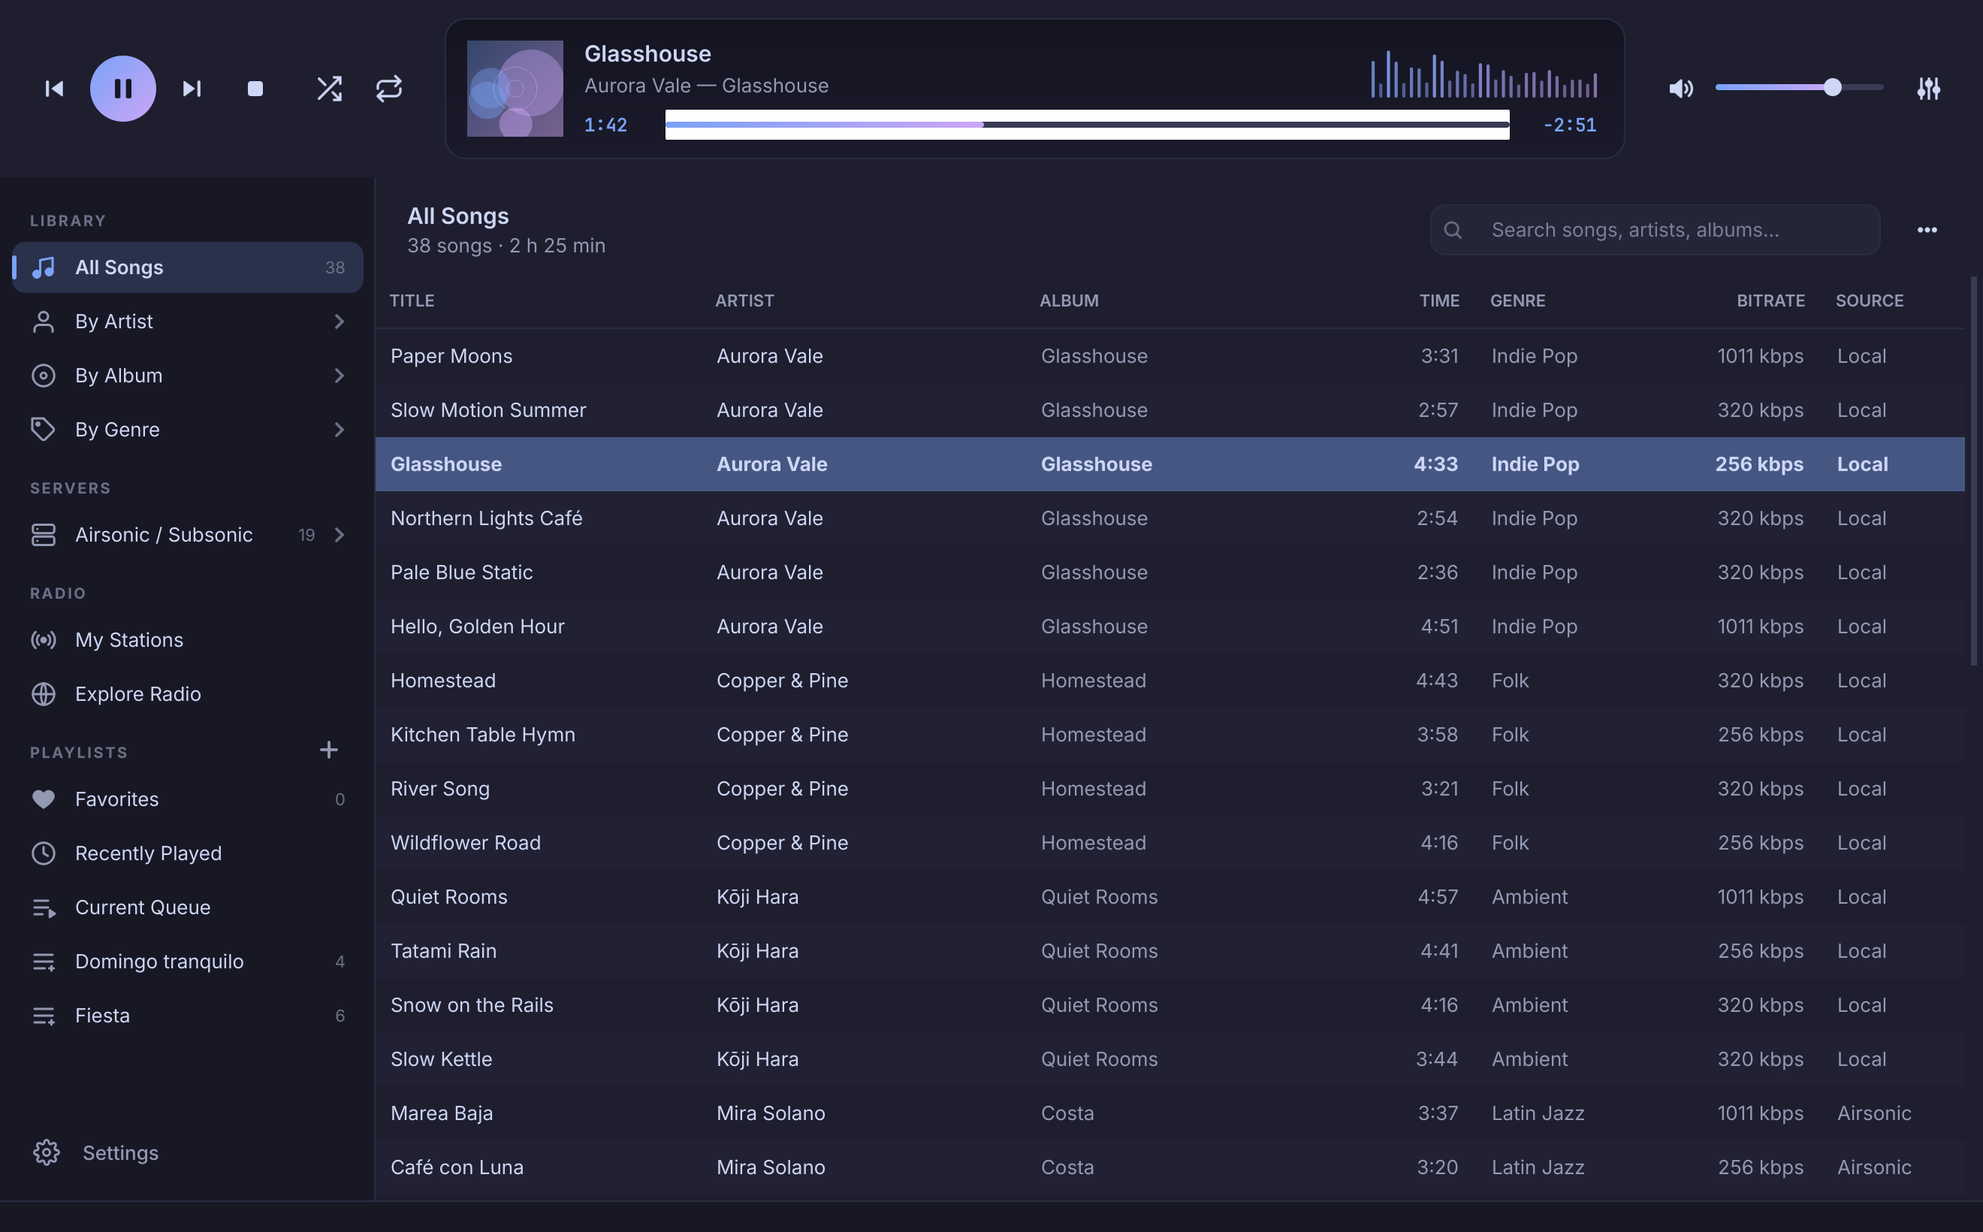
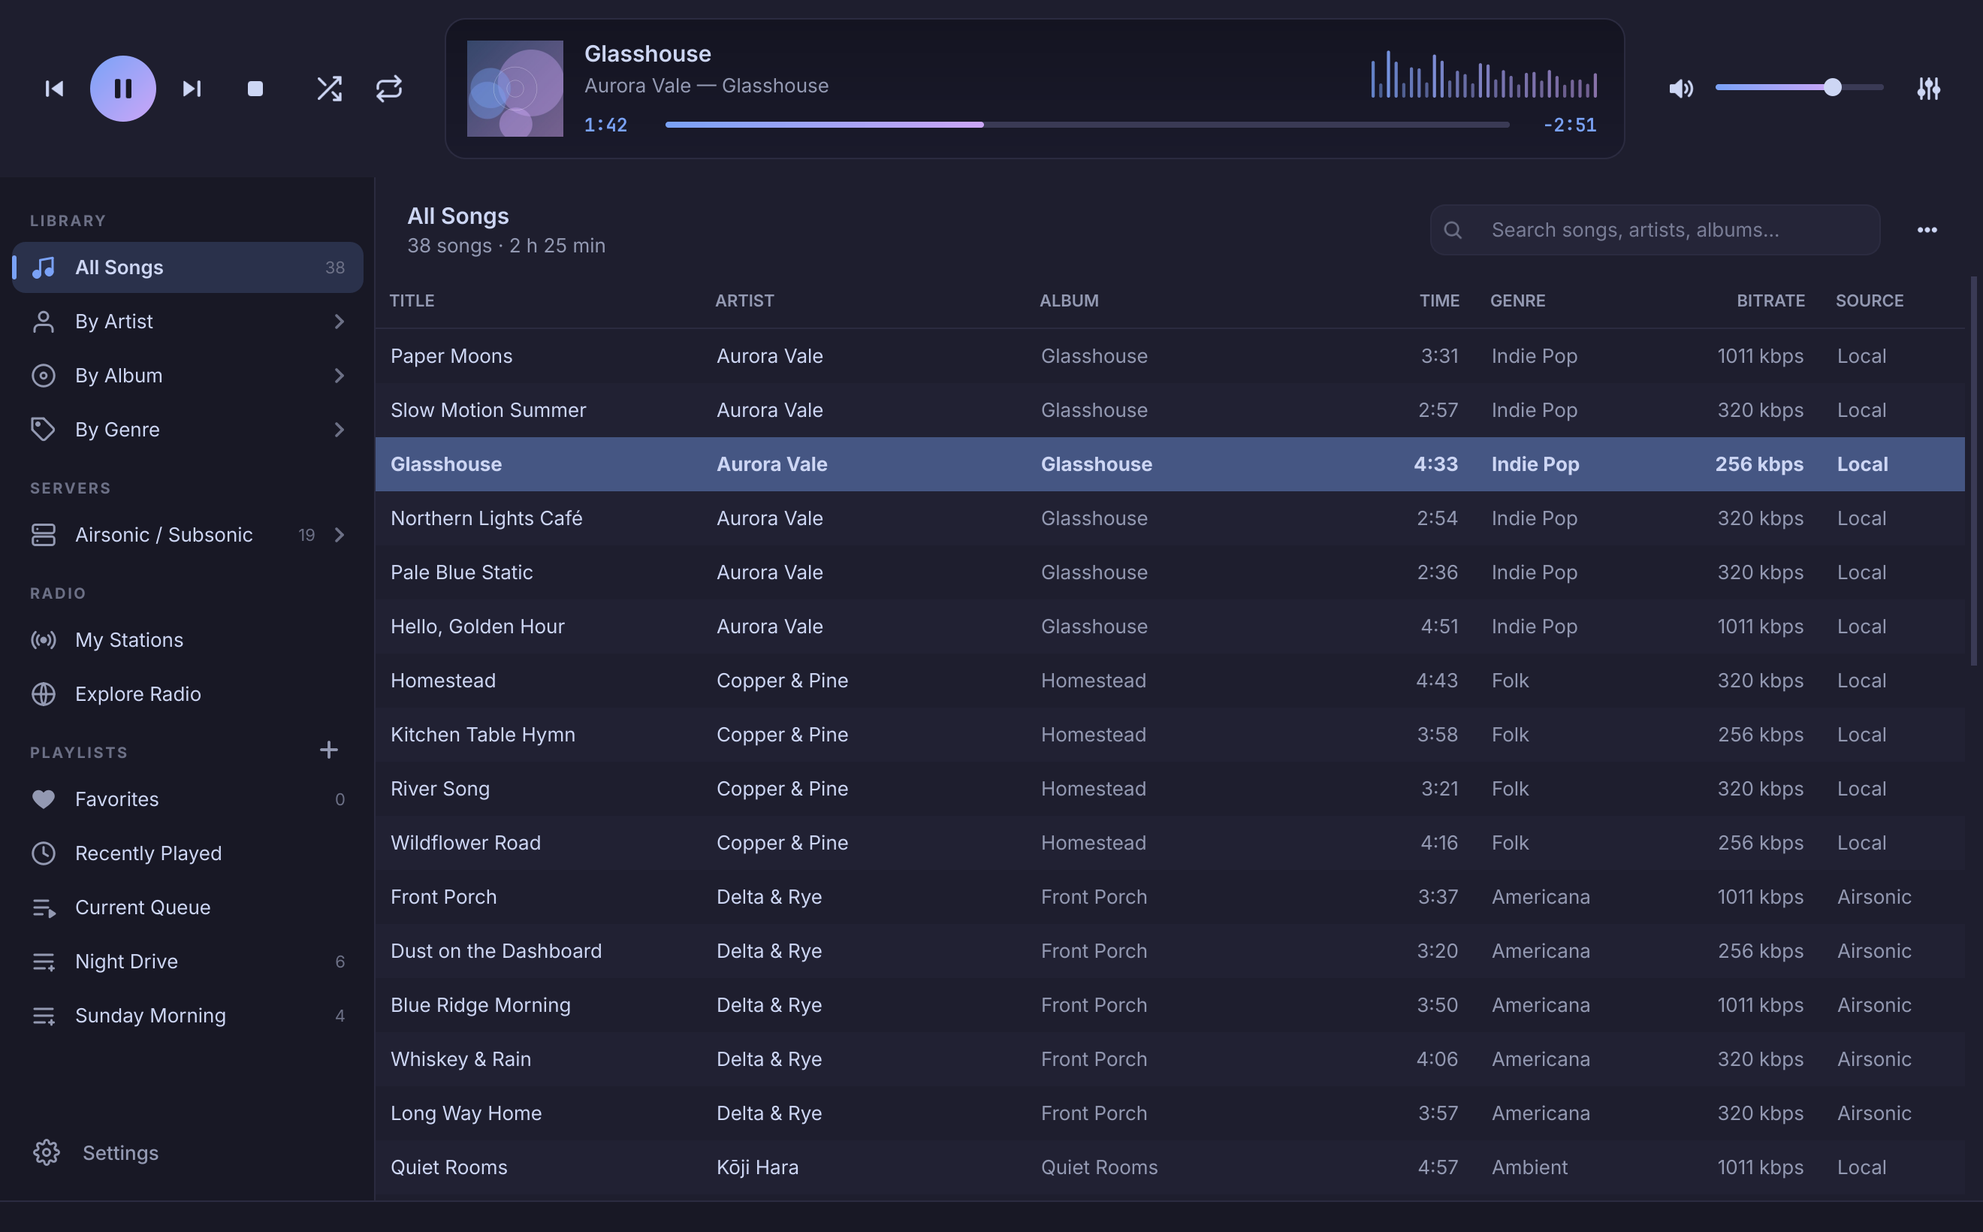
Fix the bar that turned white or black with the theme, refresh every screenshot
The seek bar wore a stray band across it: the rule was written as "#seek:hover::handle", so Qt
painted the hover state over the whole bar - white on the dark theme, black on the light one.
The hover rules now name the handle and keep its geometry.

Screenshots are regenerated from the app, the demo library and the radio genre chips no longer
carry anyone's taste in music, and the Android section reads plainer.

diff --git a/docs/index.html b/docs/index.html
@@ -67,7 +67,7 @@ h1 span { background: var(--grad); -webkit-background-clip: text; background-cli
 .btn svg { width: 19px; height: 19px; }
 .fine { margin: 16px 0 0; font-size: 13.5px; color: var(--muted); }
 .shot { margin: 46px auto 0; border-radius: 16px; border: 1px solid rgba(255,255,255,.09); overflow: hidden; box-shadow: 0 40px 90px -20px rgba(0,0,0,.65), 0 0 0 1px rgba(0,0,0,.4); background: var(--base); }
-.hero .shot { max-width: 1040px; mask-image: linear-gradient(#000 78%, transparent); -webkit-mask-image: linear-gradient(#000 78%, transparent); border-bottom: 0; border-bottom-left-radius: 0; border-bottom-right-radius: 0; }
+.hero .shot { max-width: 1040px; }
 
 /* sections */
 section { padding: 88px 0; }
@@ -233,14 +233,14 @@ footer a { color: var(--sub); text-decoration: none; } footer a:hover { color: v
     <p class="eyebrow" data-i18n="a_eyebrow">Android</p>
     <div class="two-up">
       <div>
-        <h2 data-i18n="a_title">The same player, in your pocket.</h2>
-        <p class="intro" data-i18n="a_intro">Juke for Android carries the music on your card or phone, your Airsonic server and your radio stations, in a full-screen player built for phones and tablets alike.</p>
+        <h2 data-i18n="a_title">Juke on your phone.</h2>
+        <p class="intro" data-i18n="a_intro">Juke also runs on a phone or a tablet: your files, your server and your stations, in a player that uses the whole screen.</p>
         <ul class="reqs">
-          <li data-i18n="a_r1">Your card and your storage, browsed by folders — exactly as you filed them</li>
+          <li data-i18n="a_r1">Your card or the phone's own storage, listed by folders</li>
           <li data-i18n="a_r2">Airsonic / Subsonic on its own tab, by folders too</li>
-          <li data-i18n="a_r3">Internet radio: the directory, or any page you paste — a page that lists several stations offers them all</li>
-          <li data-i18n="a_r4">Plays in the background, with the notification and lock-screen controls</li>
-          <li data-i18n="a_r5">10-band equalizer with the same presets, English and Español, dark and light</li>
+          <li data-i18n="a_r3">Radio: the directory, or paste an address. A page with several stations offers all of them</li>
+          <li data-i18n="a_r4">Keeps playing with the screen off, with the controls in the notification</li>
+          <li data-i18n="a_r5">10-band equalizer, English and Spanish, dark and light</li>
         </ul>
         <div class="cta" style="justify-content:flex-start">
           <a class="btn primary" href="https://github.com/vezzulab/juke/releases/latest">
@@ -319,13 +319,13 @@ const T = {
   es: {
     nav_features: "Características", nav_screens: "Capturas", nav_install: "Instalar", nav_android: "Android",
     cta_android: "También en Android", cta_apk: "Descargar el APK",
-    a_eyebrow: "Android", a_title: "El mismo reproductor, en tu bolsillo.",
-    a_intro: "Juke para Android lleva la música de tu tarjeta o tu teléfono, tu servidor Airsonic y tus emisoras, en un reproductor a pantalla completa hecho igual para teléfonos y tabletas.",
-    a_r1: "Tu tarjeta y tu almacenamiento, por carpetas — tal como las guardaste",
+    a_eyebrow: "Android", a_title: "Juke en tu teléfono.",
+    a_intro: "Juke también funciona en un teléfono o una tableta: tus archivos, tu servidor y tus emisoras, en un reproductor que usa toda la pantalla.",
+    a_r1: "Tu tarjeta o el almacenamiento del propio teléfono, por carpetas",
     a_r2: "Airsonic / Subsonic en su propia pestaña, también por carpetas",
-    a_r3: "Radio por Internet: el directorio, o cualquier página que pegues — si la página lista varias emisoras, te las ofrece todas",
-    a_r4: "Suena en segundo plano, con los controles en la notificación y en la pantalla de bloqueo",
-    a_r5: "Ecualizador de 10 bandas con los mismos presets, English y Español, oscuro y claro",
+    a_r3: "Radio: el directorio, o pega una dirección. Una página con varias emisoras te las ofrece todas",
+    a_r4: "Sigue sonando con la pantalla apagada, con los controles en la notificación",
+    a_r5: "Ecualizador de 10 bandas, español e inglés, oscuro y claro",
     a_fine: "Android 8 o superior · teléfonos y tabletas · unos 3 MB",
     a_c1: "Tus carpetas, tal como las guardaste",
     a_c2: "Emisoras del directorio o de cualquier página",
@@ -406,14 +406,19 @@ function showShot(tab) {
   document.getElementById("gallery-frame").classList.toggle("small", !!tab.dataset.small);
   document.getElementById("gallery-frame").style.maxWidth = tab.dataset.small ? "780px" : "";
   document.getElementById("gallery-cap").textContent = T[lang][tab.dataset.cap];
-  document.getElementById("hero-shot").src = lang === "es" ? "assets/screenshot-main-es.png" : "assets/screenshot-main.png";
+  heroShot();
+}
+function heroShot() {
+  const light = document.documentElement.dataset.theme === "light";
+  const name = light ? "screenshot-light" : (lang === "es" ? "screenshot-main-es" : "screenshot-main");
+  document.getElementById("hero-shot").src = `assets/${name}.png`;
 }
 document.querySelectorAll(".tab").forEach(t => t.addEventListener("click", () => showShot(t)));
 document.getElementById("lang").addEventListener("click", () => { lang = lang === "en" ? "es" : "en"; safe.set("juke-lang", lang); applyLang(); });
 
 const root = document.documentElement;
 let theme = safe.get("juke-theme") || "dark";   // Juke itself is a dark app; the toggle is there for daytime reading
-function applyTheme() { root.dataset.theme = theme; document.getElementById("theme").textContent = theme === "dark" ? "☾" : "☀"; }
+function applyTheme() { root.dataset.theme = theme; document.getElementById("theme").textContent = theme === "dark" ? "☾" : "☀"; heroShot(); }
 document.getElementById("theme").addEventListener("click", () => { theme = theme === "dark" ? "light" : "dark"; safe.set("juke-theme", theme); applyTheme(); });
 
 document.querySelectorAll(".copy").forEach(btn => btn.addEventListener("click", async () => {

diff --git a/android/app/src/main/java/io/github/vezzulab/juke/ui/RadioScreen.kt b/android/app/src/main/java/io/github/vezzulab/juke/ui/RadioScreen.kt
@@ -88,7 +88,7 @@ fun StationRow(vm: JukeViewModel, station: Station, trailing: @Composable () -> 
     }
 }
 
-private val Genres = listOf("salsa", "bachata", "merengue", "latin", "pop", "rock", "jazz", "classical", "news")
+private val Genres = listOf("pop", "rock", "jazz", "blues", "country", "electronic", "classical", "oldies", "news")
 
 @Composable
 private fun Explore(vm: JukeViewModel) {

diff --git a/tools/make_assets.py b/tools/make_assets.py
@@ -39,7 +39,7 @@ from juke.i18n import translator  # noqa: E402
 CATALOG = [
     ("Aurora Vale", "Glasshouse", "Indie Pop", ("Paper Moons", "Slow Motion Summer", "Glasshouse", "Northern Lights Café", "Pale Blue Static", "Hello, Golden Hour")),
     ("The Lantern Club", "After Hours in Color", "Rock", ("Neon Rain", "Cassette Heart", "Midnight Bus", "Faster Than Sleep", "Static & Sparks")),
-    ("Mira Solano", "Costa", "Latin Jazz", ("Marea Baja", "Café con Luna", "Sal y Arena", "El Último Tranvía", "Bossa para Dos")),
+    ("Delta & Rye", "Front Porch", "Americana", ("Front Porch", "Dust on the Dashboard", "Blue Ridge Morning", "Whiskey & Rain", "Long Way Home")),
     ("Nightjar", "Low Light", "Electronic", ("Signal Bloom", "Low Light", "Afterimage", "Ghost Frequency", "Glass Circuit")),
     ("Kōji Hara", "Quiet Rooms", "Ambient", ("Quiet Rooms", "Tatami Rain", "Snow on the Rails", "Slow Kettle")),
     ("Velvet Static", "Ultraviolet", "Synthpop", ("Ultraviolet", "Drive Me Somewhere", "Chrome Lovers", "Sunset Boulevard Blues", "Night Shift")),
@@ -97,9 +97,9 @@ def build_library(db: Database) -> None:
             })
     db.upsert_many(rows)
     ids = db.query_ids()
-    party = db.create_playlist("Fiesta")
+    party = db.create_playlist("Night Drive")
     db.add_to_playlist(party, [ids[i] for i in (3, 9, 14, 20, 27, 31)])
-    sunday = db.create_playlist("Domingo tranquilo")
+    sunday = db.create_playlist("Sunday Morning")
     db.add_to_playlist(sunday, [ids[i] for i in (5, 11, 16, 22)])
 
 
@@ -294,10 +294,10 @@ def main() -> None:
     # Airsonic: the server's own folder hierarchy
     sidebar = window.sidebar
     sidebar._items[("airsonic", None)].setExpanded(True)
-    for name in ("Mira Solano", "Nightjar"):
+    for name in ("Delta & Rye", "Nightjar"):
         sidebar._items[("folder", name)].setExpanded(True)
-    sidebar.select("folder", "Mira Solano/Costa")
-    window._show_view("folder", "Mira Solano/Costa")
+    sidebar.select("folder", "Delta & Rye/Front Porch")
+    window._show_view("folder", "Delta & Rye/Front Porch")
     window.table.clearSelection()
     grab(window, out / "screenshot-folders.png")
     sidebar.select("all")

diff --git a/juke/gui/styles.py b/juke/gui/styles.py
@@ -143,10 +143,13 @@ QSlider::sub-page:horizontal {{
     background: qlineargradient(x1:0, y1:0, x2:1, y2:0, stop:0 {ACCENT}, stop:1 {ACCENT2});
     border-radius: 2px;
 }}
+QSlider::add-page:horizontal {{ background: {OVERLAY}; border-radius: 2px; }}
 QSlider::handle:horizontal {{ width: 12px; height: 12px; margin: -4px 0; border-radius: 6px; background: {TEXT}; }}
-QSlider::handle:horizontal:hover {{ background: {HANDLE_HOVER}; }}
+/* the hover rules keep the geometry, and :hover belongs on the handle: as ":hover::handle" Qt
+   paints the state across the whole bar (white on the dark theme, black on the light one) */
+QSlider::handle:horizontal:hover {{ width: 12px; height: 12px; margin: -4px 0; border-radius: 6px; background: {HANDLE_HOVER}; }}
 QSlider#seek::handle:horizontal {{ width: 12px; height: 12px; margin: -4px 0; border-radius: 6px; background: transparent; }}
-QSlider#seek:hover::handle:horizontal {{ width: 12px; height: 12px; margin: -4px 0; border-radius: 6px; background: {HANDLE_HOVER}; }}
+QSlider#seek::handle:horizontal:hover {{ width: 12px; height: 12px; margin: -4px 0; border-radius: 6px; background: {HANDLE_HOVER}; }}
 QSlider::groove:vertical {{ width: 4px; background: {OVERLAY}; border-radius: 2px; }}
 QSlider::sub-page:vertical {{ background: {OVERLAY}; border-radius: 2px; }}
 QSlider::add-page:vertical {{
@@ -154,7 +157,7 @@ QSlider::add-page:vertical {{
     border-radius: 2px;
 }}
 QSlider::handle:vertical {{ height: 14px; width: 14px; margin: 0 -5px; border-radius: 7px; background: {TEXT}; }}
-QSlider::handle:vertical:hover {{ background: {HANDLE_HOVER}; }}
+QSlider::handle:vertical:hover {{ height: 14px; width: 14px; margin: 0 -5px; border-radius: 7px; background: {HANDLE_HOVER}; }}
 
 /* Search field --------------------------------------------------------------------- */
 QLineEdit {{

diff --git a/tests/test_gui.py b/tests/test_gui.py
@@ -581,8 +581,8 @@ class RadioFlowTests(unittest.TestCase):
             self.assertTrue(w.radio_view._chips.isVisible())
             saved_flags = {r.station.name: not r.action_button.isEnabled() for r in w.radio_view._rows}
             self.assertEqual(saved_flags, {"Latina Salsa": False, "Cima 100.5": True})   # the saved one cannot be saved twice
-            w.radio_view._chip_buttons[1].click()                                        # the "salsa" chip
-            self.assertTrue(self.spin_until(lambda: queries[-1] == ("", "salsa")))
+            w.radio_view._chip_buttons[1].click()                                        # the first genre chip (index 0 is "All")
+            self.assertTrue(self.spin_until(lambda: queries[-1] == ("", rv.CHIPS[0])))
             w.search.setText("boom")                                                     # typed search hits the directory (debounced)
             self.assertTrue(self.spin_until(lambda: queries[-1][0] == "boom" and w.radio_view._message.button.isVisible()))
             self.assertEqual(w.radio_view._message.title.text(), "Could not reach the radio directory")

diff --git a/juke/gui/components/radio_view.py b/juke/gui/components/radio_view.py
@@ -15,7 +15,7 @@ from ...workers import AsyncWorker
 from .. import icons, styles
 from .widgets import ElidedLabel
 
-CHIPS = ("salsa", "bachata", "merengue", "latin", "pop", "rock", "jazz", "electronic", "classical", "news")
+CHIPS = ("pop", "rock", "jazz", "blues", "country", "electronic", "classical", "oldies", "news")
 ROW_HEIGHT = 70
 ICON = 46
 

diff --git a/README.md b/README.md
@@ -5,7 +5,7 @@
 <br>
 
 **A modern 3-pane music player for Linux.**<br>
-Your local library, your Airsonic / Subsonic server, internet radio and a 10-band equalizer — instant with 50,000+ tracks, and easy on the battery.
+Your own files, your Airsonic / Subsonic server, internet radio and a 10-band equalizer. It stays quick with big libraries and light on the battery.
 
 <br>
 
@@ -27,13 +27,13 @@ Your local library, your Airsonic / Subsonic server, internet radio and a 10-ban
 
 ## Why Juke
 
-A classic three-pane layout — sources on the left, songs in the middle, the player on top — rebuilt for today: a dark *or* light, rounded, Libadwaita-flavoured interface, a real audio pipeline, and a library that does not stutter when it grows.
+The layout is the classic one: sources on the left, songs in the middle, the player on top. Dark or light theme, libVLC underneath, and a song list that stays quick as the library grows.
 
 <table>
 <tr>
 <td width="50%" valign="top">
 
-### Instant, whatever the size
+### Quick with big libraries
 The song table never loads your library into memory. It keeps an ordered list of ids and pulls rows from SQLite one page at a time while you scroll. Search, sort and filter happen in the database, over indexed columns.
 
 </td>
@@ -126,31 +126,27 @@ English and Spanish, switchable live. Qt 6 HiDPI scaling (fractional too), Wayla
 ## Juke for Android
 
 <div align="center">
-<img src="assets/android-player.png" alt="Juke playing a live station on Android" width="30%">
+<img src="assets/android-player.png" alt="The player on Android" width="30%">
 <img src="assets/android-library.png" alt="Music folders on the card" width="30%">
 <img src="assets/android-radio.png" alt="The radio directory on Android" width="30%">
 </div>
 
-The same player on a phone or a tablet: a full-screen body with the art, the format plate and the
-transport keys, built with Jetpack Compose and Media3.
+Juke also runs on a phone or a tablet. It is in [`android/`](android), written in Kotlin with Jetpack
+Compose and Media3.
 
-- **Your card and your storage, by folders** — exactly as you filed them; no card is needed, the
-  device's own storage shows up the same way.
-- **Airsonic / Subsonic on its own tab**, browsed by folders too.
-- **Internet radio** — the community directory, or any address you paste. A page whose player lists
-  several stations offers them all, and a saved station finds its new address when it moves.
-- **Background playback** with the notification and lock-screen controls, Bluetooth and headsets.
-- **10-band equalizer** with the same presets, English and Español, dark and light.
+- Your music on the card or in the phone's storage, listed by folders. There is no card in some
+  phones, and then it just shows the internal storage.
+- Your Airsonic / Subsonic server on its own tab, also by folders.
+- Radio: the directory, or paste an address. If a page has several stations, it offers all of them.
+- Keeps playing with the screen off, with the usual controls in the notification.
+- 10-band equalizer, English and Spanish, dark and light.
 
-Install `Juke-<version>.apk` from the [latest release](https://github.com/vezzulab/juke/releases/latest)
-(Android 8 or newer, about 3 MB). Android asks you to allow installing from your browser or file
-manager the first time.
-
-Build it yourself with the Android SDK (API 35) and JDK 17:
+Get `Juke-<version>.apk` from the [latest release](https://github.com/vezzulab/juke/releases/latest).
+It needs Android 8 or newer and weighs about 3 MB. To build it you need the Android SDK and JDK 17:
 
 ```sh
 cd android
-./gradlew :app:assembleDebug        # app/build/outputs/apk/debug/app-debug.apk
+./gradlew :app:assembleDebug
 ```
 
 ## Install

diff --git a/README.es.md b/README.es.md
@@ -5,7 +5,7 @@
 <br>
 
 **Un reproductor de música moderno de 3 paneles para Linux.**<br>
-Tu biblioteca local, tu servidor Airsonic / Subsonic, radio por Internet y un ecualizador de 10 bandas — instantáneo con más de 50.000 pistas y amable con la batería.
+Tus archivos, tu servidor Airsonic / Subsonic, radio por Internet y un ecualizador de 10 bandas. Se mantiene rápido con bibliotecas grandes y gasta poca batería.
 
 <br>
 
@@ -128,33 +128,27 @@ Inglés y español, con cambio en vivo. Escalado HiDPI de Qt 6 (también fraccio
 ## Juke para Android
 
 <div align="center">
-<img src="assets/android-player.png" alt="Juke reproduciendo una emisora en vivo en Android" width="30%">
+<img src="assets/android-player.png" alt="El reproductor en Android" width="30%">
 <img src="assets/android-library.png" alt="Carpetas de música en la tarjeta" width="30%">
 <img src="assets/android-radio.png" alt="El directorio de radios en Android" width="30%">
 </div>
 
-El mismo reproductor en un teléfono o una tableta: un cuerpo a pantalla completa con la carátula, la
-placa del formato y las teclas de transporte, hecho con Jetpack Compose y Media3.
+Juke también funciona en un teléfono o una tableta. Está en [`android/`](android), escrito en Kotlin
+con Jetpack Compose y Media3.
 
-- **Tu tarjeta y tu almacenamiento, por carpetas** — tal como las guardaste; no hace falta tarjeta, el
-  almacenamiento del propio aparato aparece igual.
-- **Airsonic / Subsonic en su propia pestaña**, también por carpetas.
-- **Radio por Internet** — el directorio comunitario o cualquier dirección que pegues. Si la página
-  lista varias emisoras, te las ofrece todas, y una emisora guardada encuentra su nueva dirección
-  cuando se muda.
-- **Suena en segundo plano**, con los controles en la notificación, la pantalla de bloqueo, Bluetooth
-  y los auriculares.
-- **Ecualizador de 10 bandas** con los mismos presets, English y Español, oscuro y claro.
+- Tu música de la tarjeta o del almacenamiento del teléfono, por carpetas. Hay teléfonos sin tarjeta,
+  y entonces muestra el almacenamiento interno.
+- Tu servidor Airsonic / Subsonic en su propia pestaña, también por carpetas.
+- Radio: el directorio, o pega una dirección. Si una página tiene varias emisoras, te las ofrece todas.
+- Sigue sonando con la pantalla apagada, con los controles de siempre en la notificación.
+- Ecualizador de 10 bandas, español e inglés, oscuro y claro.
 
-Instala `Juke-<versión>.apk` desde la [última versión](https://github.com/vezzulab/juke/releases/latest)
-(Android 8 o superior, unos 3 MB). La primera vez, Android te pedirá permitir la instalación desde tu
-navegador o tu explorador de archivos.
-
-Constrúyelo tú con el SDK de Android (API 35) y JDK 17:
+Descarga `Juke-<versión>.apk` de la [última versión](https://github.com/vezzulab/juke/releases/latest).
+Necesita Android 8 o superior y pesa unos 3 MB. Para construirlo hacen falta el SDK de Android y JDK 17:
 
 ```sh
 cd android
-./gradlew :app:assembleDebug        # app/build/outputs/apk/debug/app-debug.apk
+./gradlew :app:assembleDebug
 ```
 
 ## Instalación
